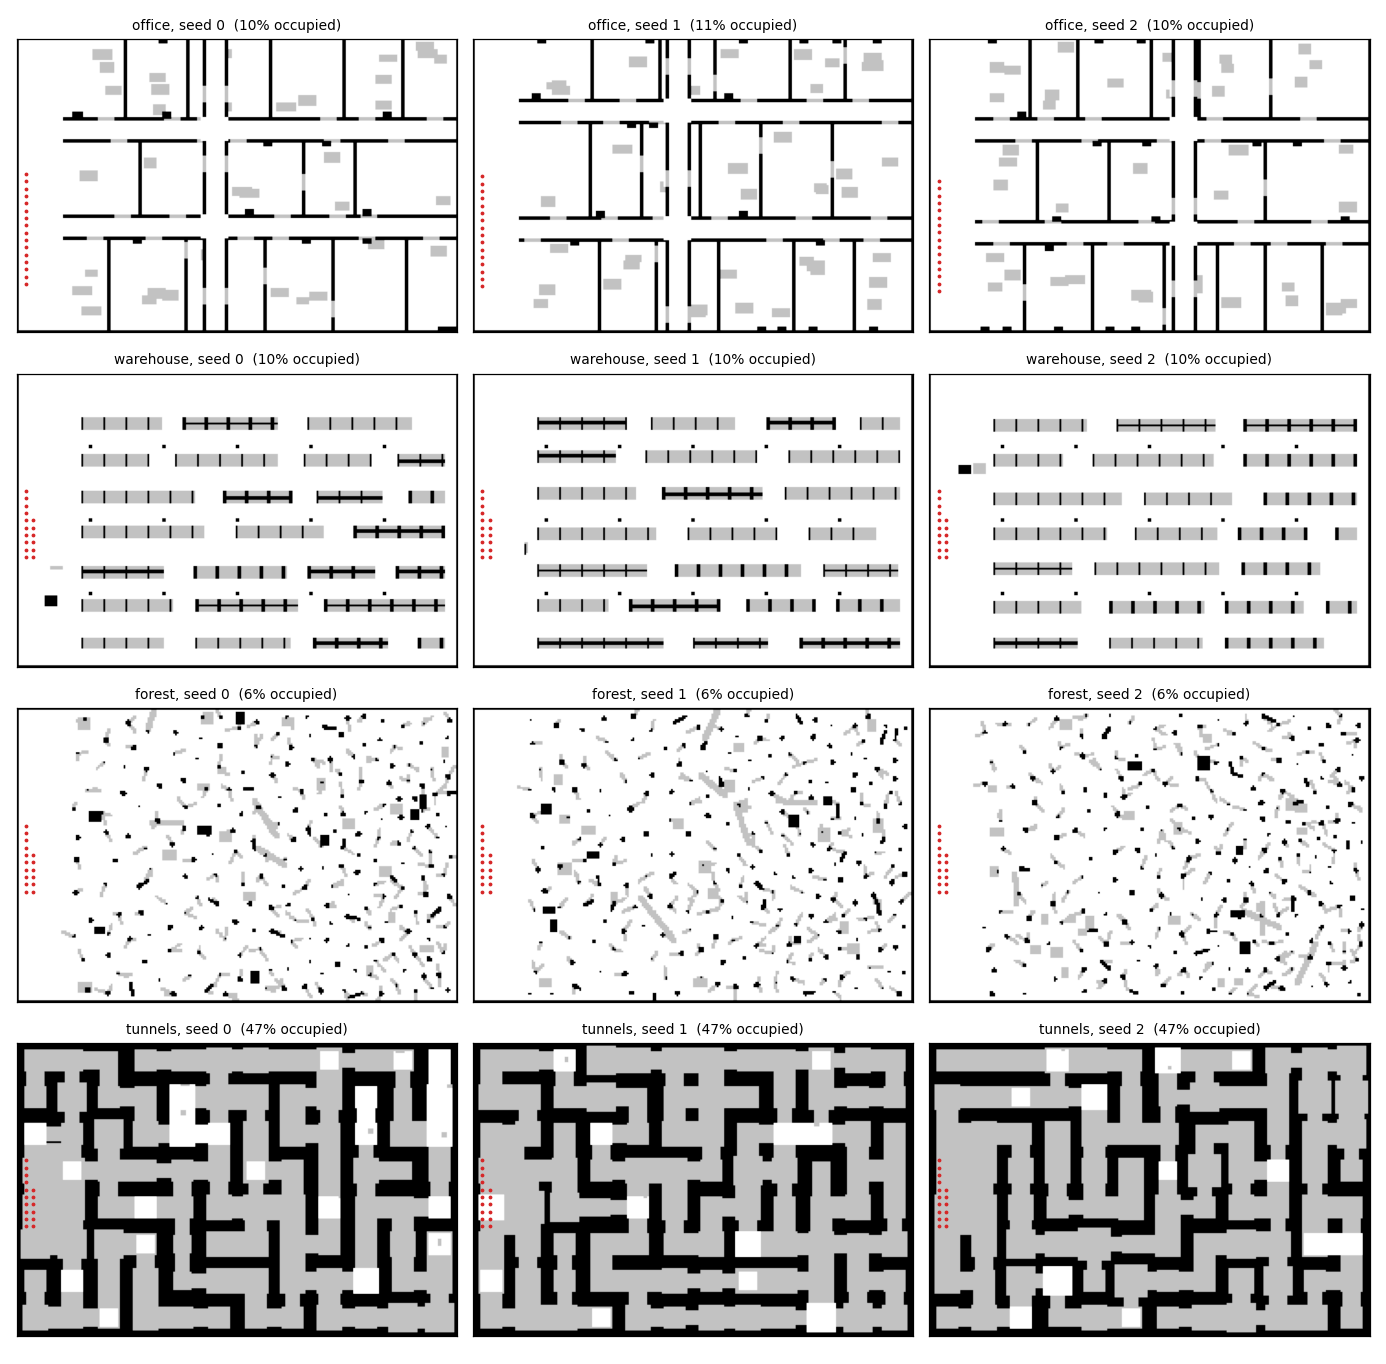
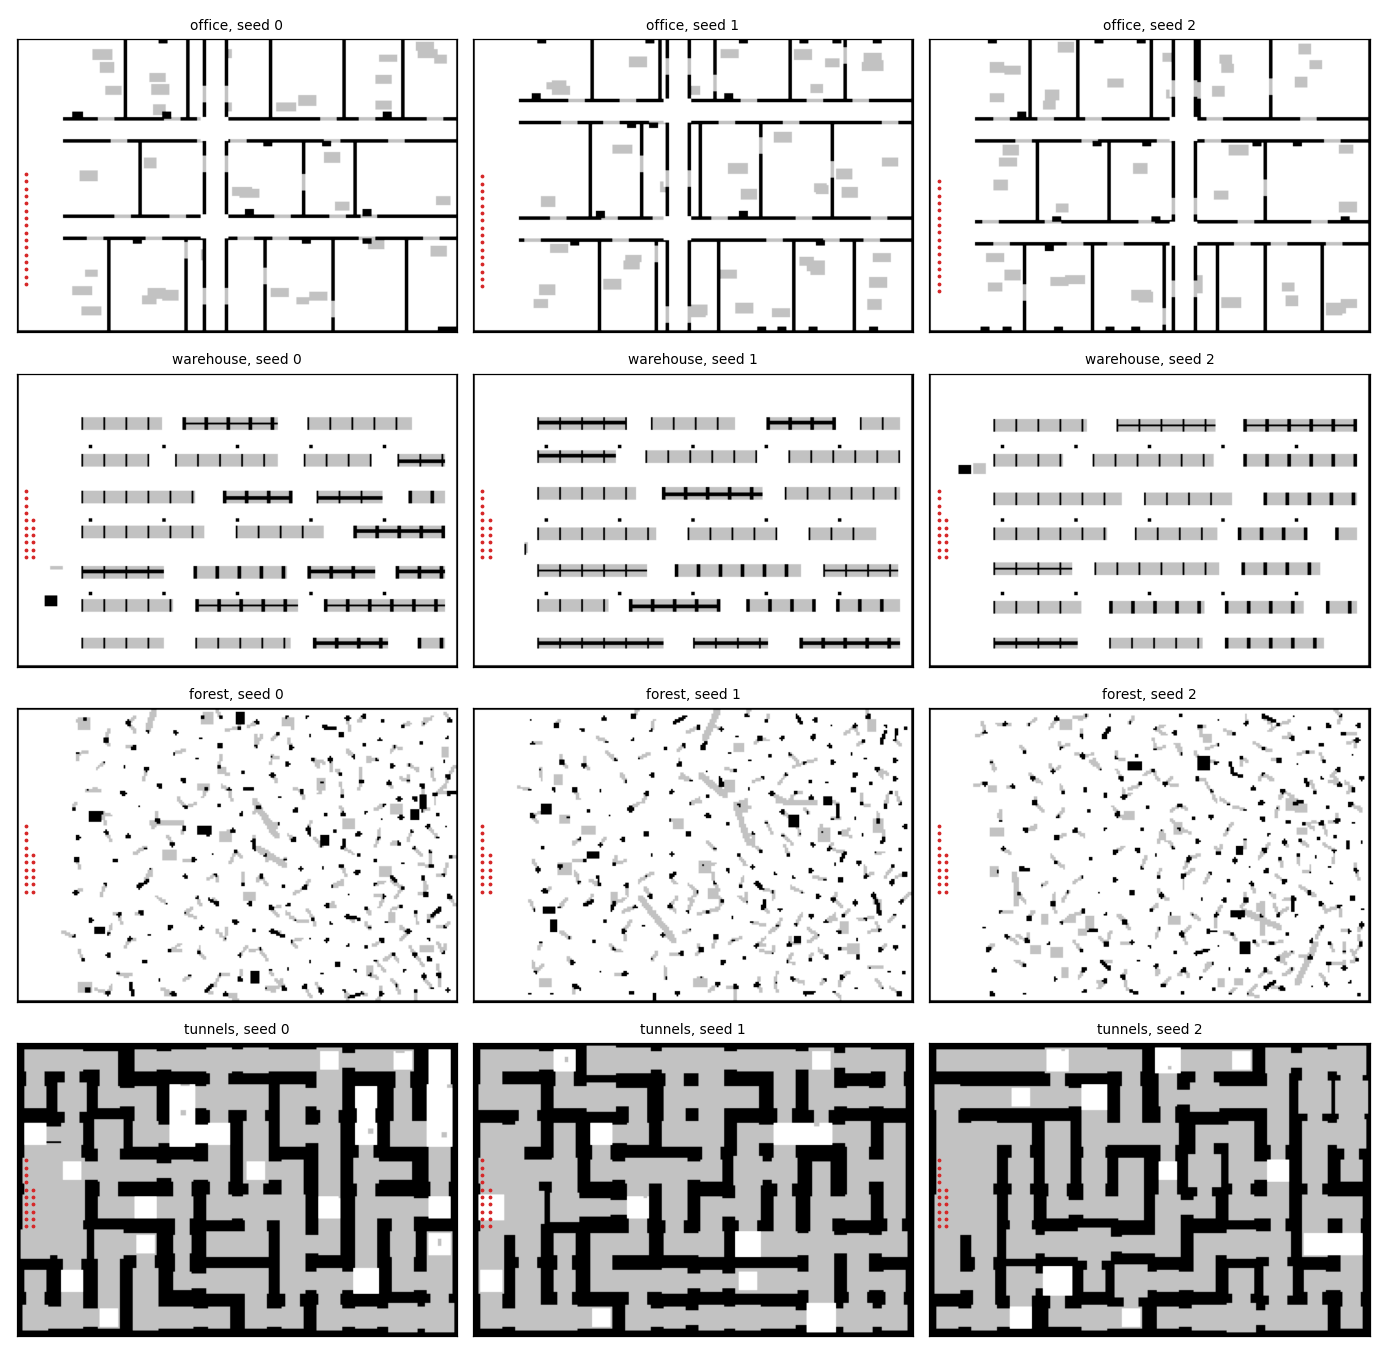
Updated world images

diff --git a/scripts/show_worlds.py b/scripts/show_worlds.py
@@ -28,7 +28,7 @@ def main(seeds=(0, 1, 2)):
             ax = axes[i, j]
             ax.imshow(img.T, origin="lower", cmap="Greys", extent=[0, w.size[0], 0, w.size[1]], vmin=0, vmax=1)
             ax.plot(w.starts[:16, 0], w.starts[:16, 1], ".", color="tab:red", ms=3)
-            ax.set_title(f"{f}, seed {s}  ({occ.mean() * 100:.0f}% occupied)", fontsize=9)
+            ax.set_title(f"{f}, seed {s}", fontsize=9)
             ax.set_xticks([]), ax.set_yticks([])
             assert not w.occ[tuple((w.starts / w.res).astype(int).T)].any(), "start inside obstacle"
     fig.tight_layout()
